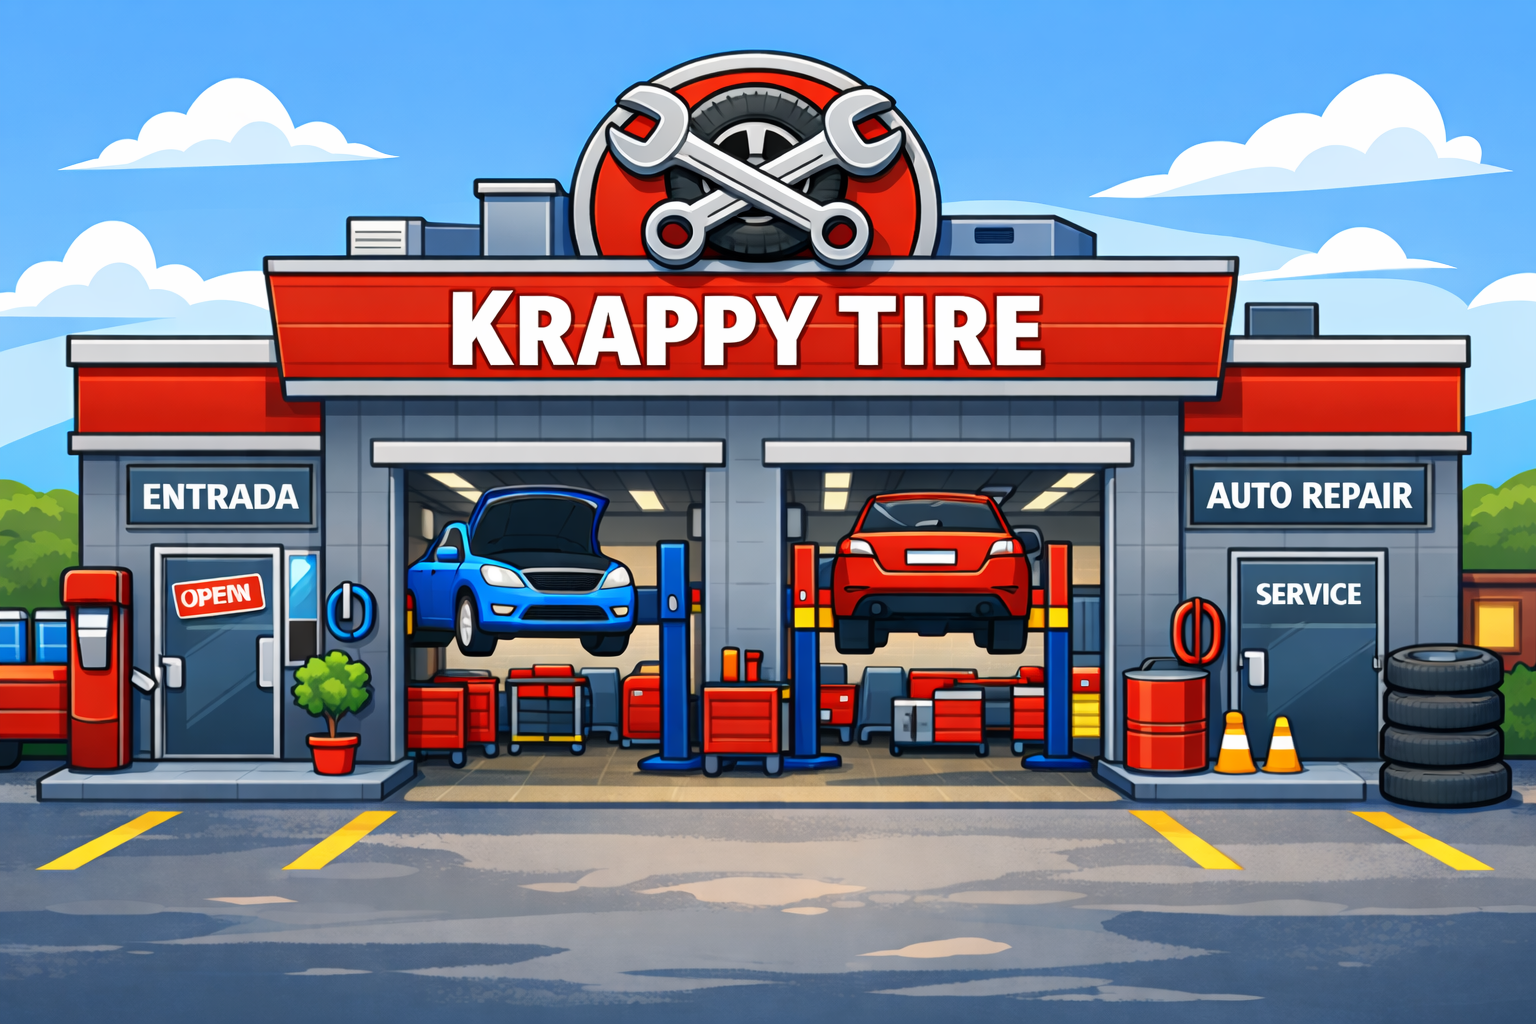
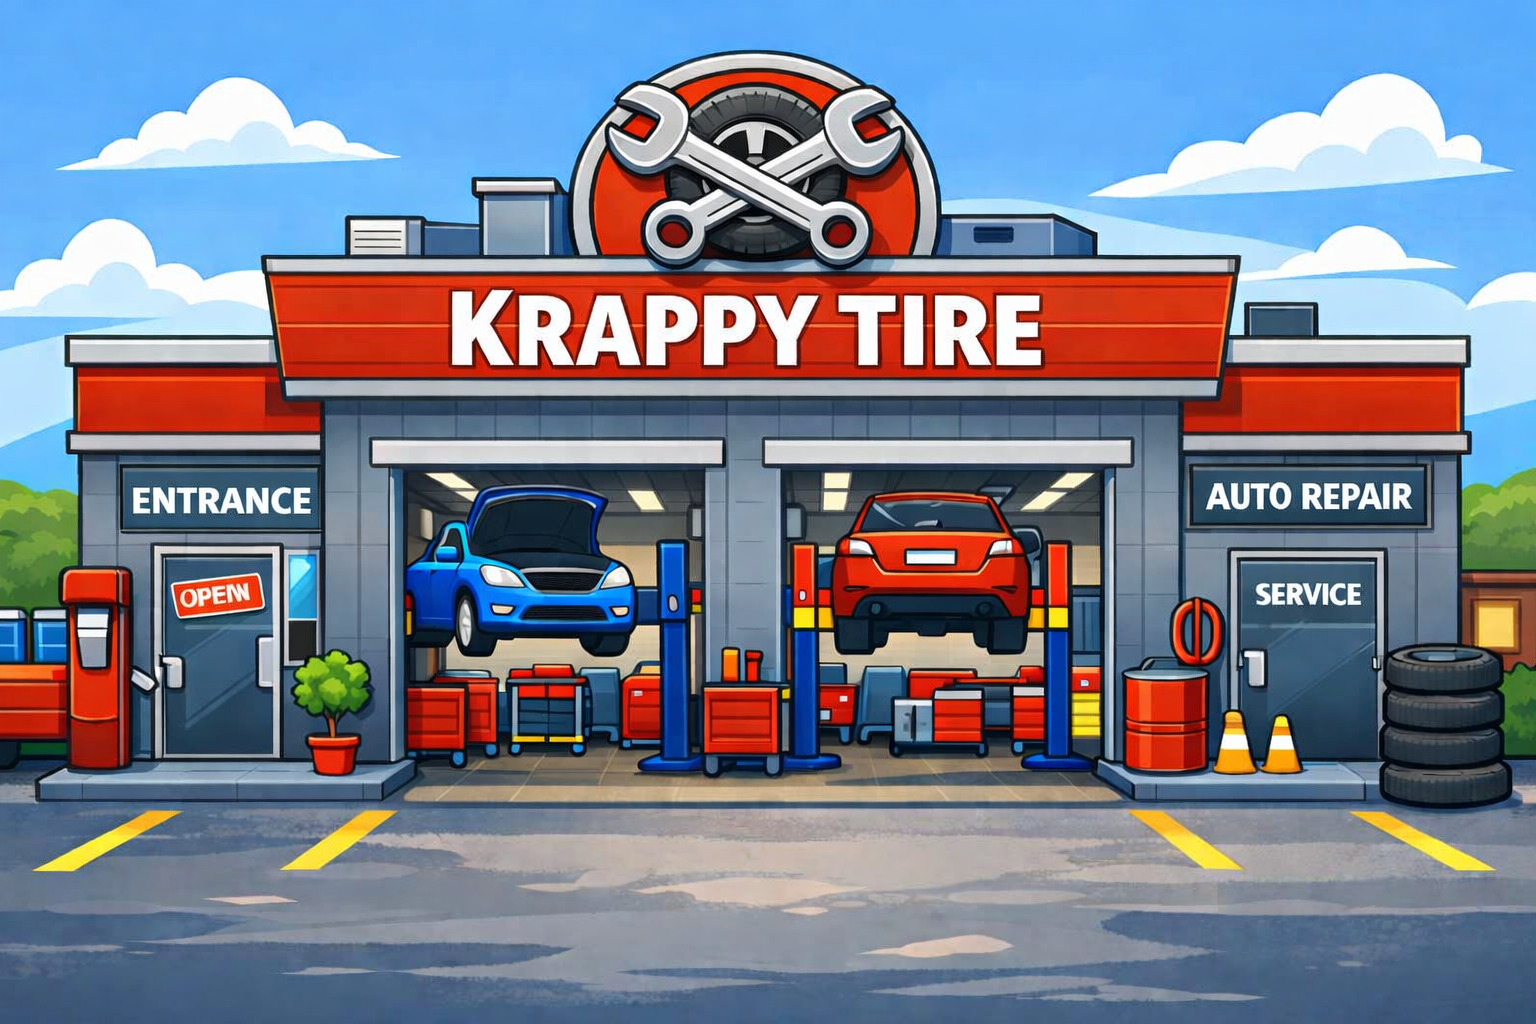
latest

diff --git a/CarMaint/Controllers/CustomerDatasController.cs b/CarMaint/Controllers/CustomerDatasController.cs
@@ -28,19 +28,39 @@ namespace CarMaint.Controllers
         }
 
         // GET: CustomerDatas/Details/5
-        public ActionResult Details(int? id)
+        //public ActionResult Details(int? id)
+        //{
+        //    if (id == null)
+        //    {
+        //        return new HttpStatusCodeResult(HttpStatusCode.BadRequest);
+        //    }
+        //    CustomerData customerData = db.CustomerDatas.Find(id);
+        //    if (customerData == null)
+        //    {
+        //        return HttpNotFound();
+        //    }
+        //    return View(customerData);
+        //}
+
+        public ActionResult Details(int id)
         {
-            if (id == null)
+            var customer = db.CustomerDatas.Find(id);
+
+            // Get cars for this customer
+            var cars = db.CarDatas
+                         .Where(c => c.CustomerId == id)
+                         .ToList();
+
+            // Build a view model
+            var vm = new CustomerDetailsViewModel
             {
-                return new HttpStatusCodeResult(HttpStatusCode.BadRequest);
-            }
-            CustomerData customerData = db.CustomerDatas.Find(id);
-            if (customerData == null)
-            {
-                return HttpNotFound();
-            }
-            return View(customerData);
+                Customer = customer,
+                Cars = cars
+            };
+
+            return View(vm);
         }
+
 
         // GET: CustomerDatas/Create
         public ActionResult Create()

diff --git a/CarMaint/Models/CustomerDetailsViewModel.cs b/CarMaint/Models/CustomerDetailsViewModel.cs
@@ -1,0 +1,10 @@
+using System.Collections.Generic;
+
+namespace CarMaint.Models
+{
+    public class CustomerDetailsViewModel
+    {
+        public CustomerData Customer { get; set; }
+        public List<CarData> Cars { get; set; }
+    }
+}